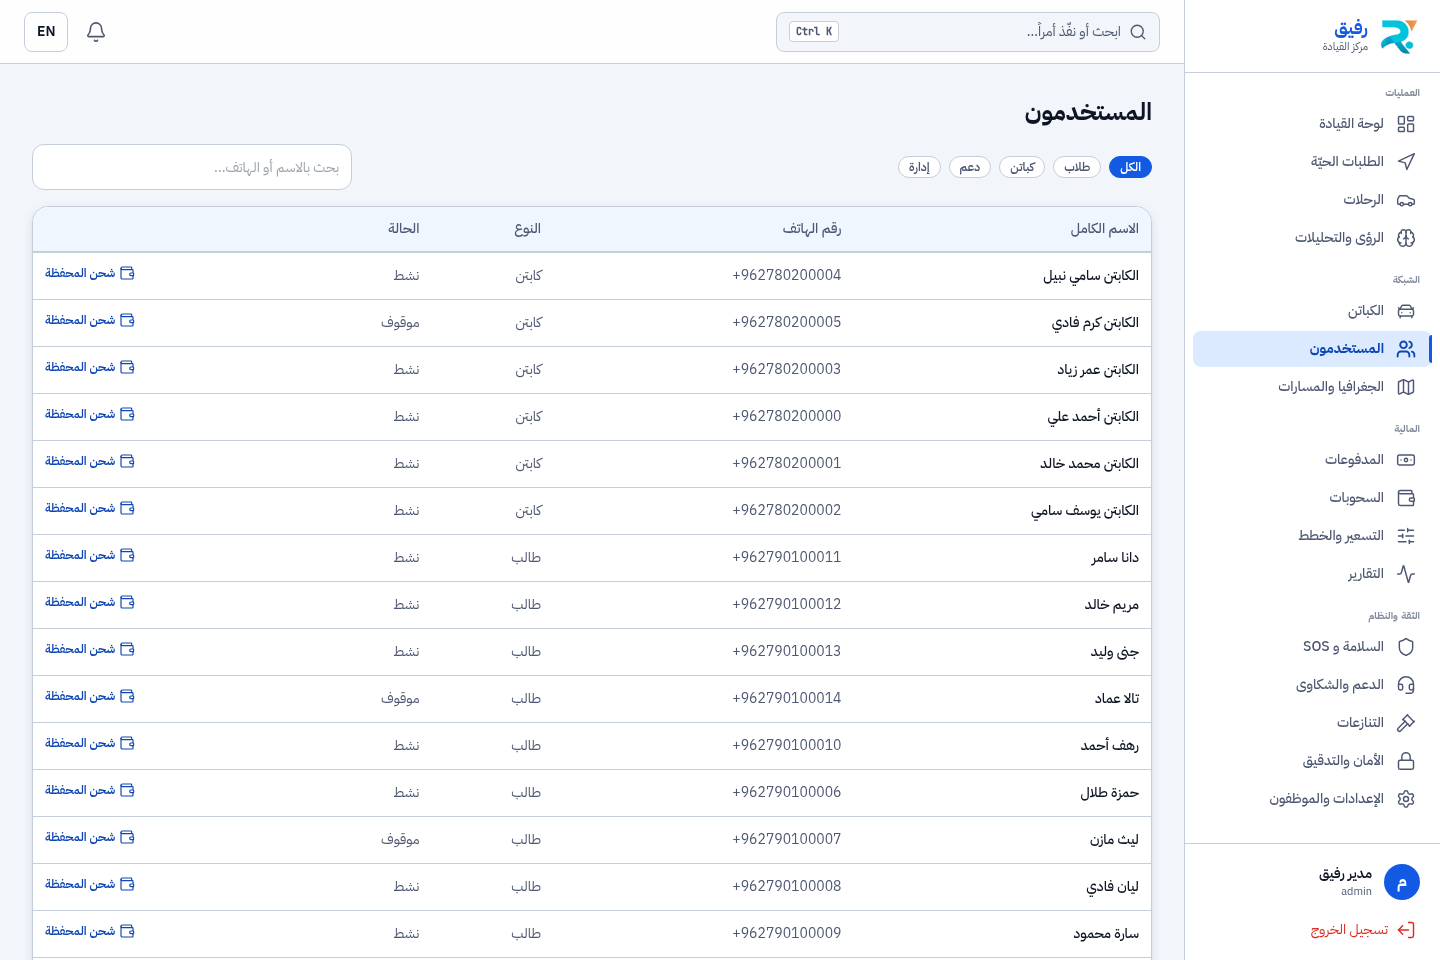
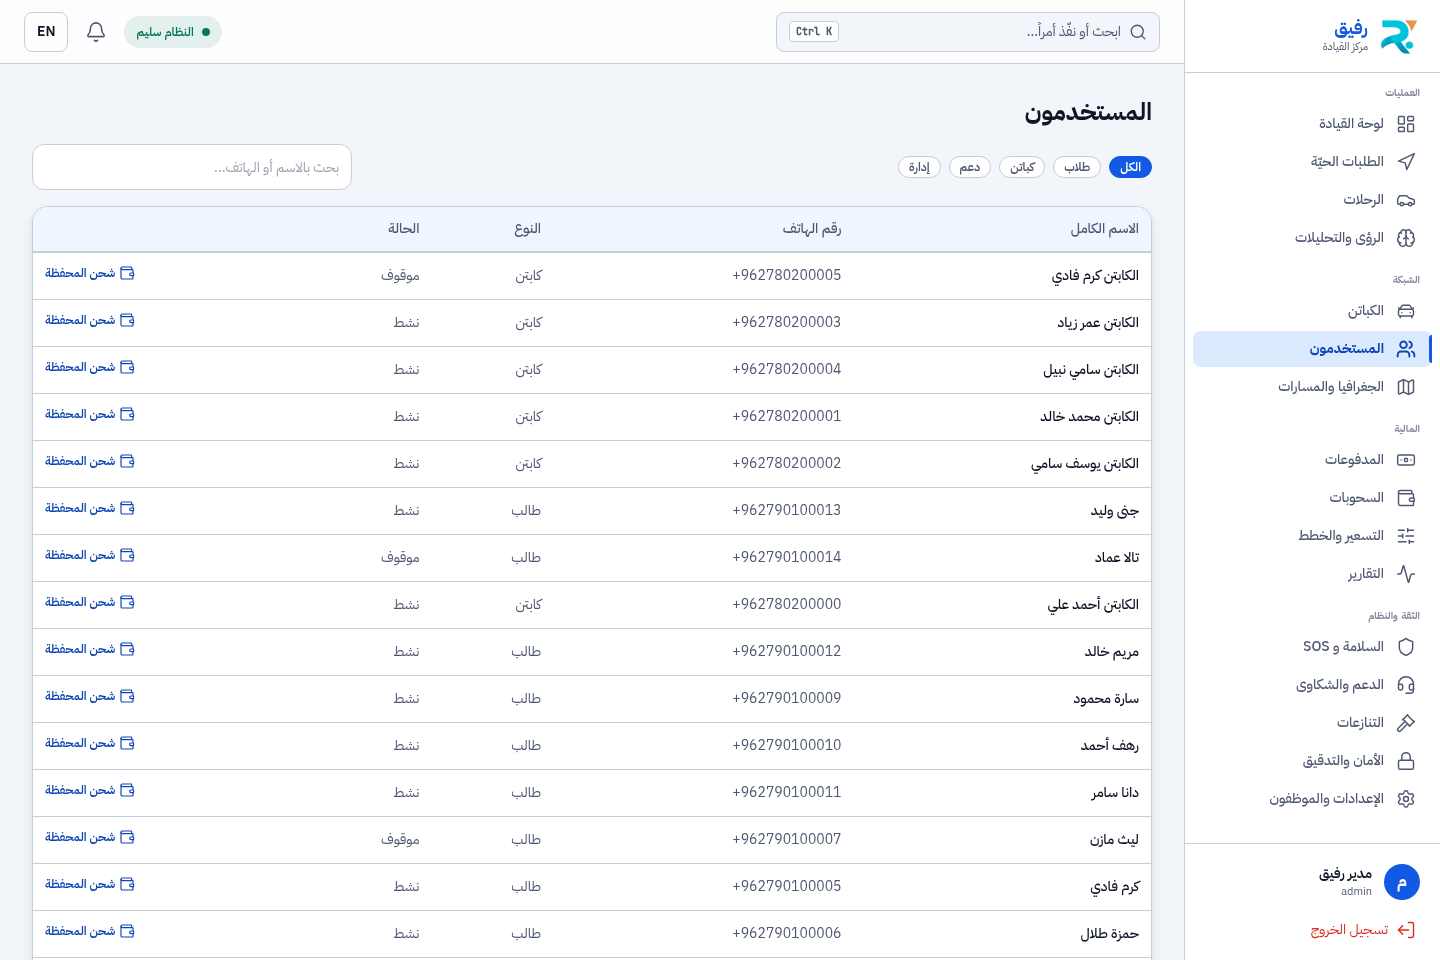
المرحلة 10.2 (جزئيّاً) — بطاقات المؤشّرات: شريط مقيس، ومؤشّر سلامة حقيقي
── The progress bar was fabricated, and never drawn ─────────────────────────

`Kpi.bar` held 0.75, 0.8, 0.6 and 0.3 — four constants typed by hand, with no input
from the report they sat beside — and nothing ever RENDERED them. The dashboard carried
invented progress values that no one could even see.

The approved reference (`docs/design/v2/06-admin-1`) does want a bar under each figure,
captioned «74% من هدف اليوم». That caption cannot be computed here: `FinancialReport`
returns no target and no previous period. So instead of approximating it — which is
what those four constants were — `share` now carries a MEASURED ratio together with the
name of the denominator, and the caption states it:

    الرحلات المدفوعة   38% بمقاعد اشتراك        by_funding.subscription.rides_count / rides_count
    إيراد المنصّة       17% من إجمالي الأجور     platform_revenue_fils / gross_fare_fils
    إجمالي الأجور       75% حصّة الكباتن منها    captain_earnings_fils / gross_fare_fils
    نزاعات حرجة        22% من النزاعات المفتوحة  critical / open

A card with no honest denominator gets no bar. On seeder data every denominator is
zero, so all four are correctly ABSENT in the committed screenshots — the render path
was verified separately with forced values, then reverted.

── The trend pill pointed up regardless of the number ───────────────────────

Every card drew a `trending-up` arrow beside `trend`, and `trend` was never a trend:
[…]

diff --git a/frontend/admin-dashboard/app/(dashboard)/page.tsx b/frontend/admin-dashboard/app/(dashboard)/page.tsx
@@ -9,6 +9,7 @@ import { useAuth } from '../../src/lib/auth';
 import { useT } from '../../src/lib/i18n';
 import { Skeleton, StatCardsSkeleton } from '../../src/components/Skeleton';
 import { Icon } from '../../src/components/Icon';
+import { Num } from '../../src/components/Num';
 
 /*
  * Money goes through the shared formatter. It used to be:
@@ -27,20 +28,45 @@ const monthStart = () => {
 };
 const today = () => new Date().toISOString().slice(0, 10);
 
+/* ═══════════════════════════════════════════════════════════════════════════
+   A KPI card, and the two things that used to be wrong with it.
+
+   ── The progress bar was fabricated ────────────────────────────────────────
+
+   `bar` held 0.75, 0.8, 0.6 and 0.3 — four constants typed by hand, with no input
+   from the report they sat beside. It was also never RENDERED, so the dashboard
+   carried invented progress values that nobody could even see. The approved reference
+   (`docs/design/v2/06-admin-1`) does want a bar under each figure, and it wants
+   «74% من هدف اليوم» — but this API returns no target and no previous period, so that
+   exact caption cannot be computed. Inventing it is what the old constants did.
+
+   `share` therefore carries a MEASURED ratio together with the name of the
+   denominator it was measured against, and the caption states that denominator. A bar
+   with nothing real to divide by is omitted rather than filled in.
+
+   ── The trend pill pointed up regardless ───────────────────────────────────
+
+   Every card rendered a `trending-up` arrow beside `trend`, and `trend` was never a
+   trend: «منذ بداية الشهر» is a period, «عمولة رحلات + بيع اشتراكات» is a composition,
+   and «لا يوجد حالياً» — no open disputes — was shown under an arrow meaning growth.
+   A rising arrow next to "none right now" is not decoration; it is a wrong reading of
+   the number it is attached to. Removed.
+   ═══════════════════════════════════════════════════════════════════════════ */
 interface Kpi {
   label: string;
   value: string;
   icon: string;
-  trend?: string;
-  bar: number; // 0..1
+  /** A measured ratio, and the denominator it is a share of. Omitted when none exists. */
+  share?: { ratio: number; ofLabel: string };
   danger?: boolean;
 }
 
 function KpiCard({ k }: { k: Kpi }) {
+  const percent = k.share ? Math.round(Math.min(1, Math.max(0, k.share.ratio)) * 100) : 0;
+
   return (
     <div className={`kpi-card p-6 flex flex-col justify-between ${k.danger ? 'border-danger/40' : ''}`}>
       <div className="flex justify-between items-start mb-4">
-        {/* Icon tile (right) */}
         <div
           className={`w-12 h-12 rounded-lg flex items-center justify-center ${
             k.danger ? 'bg-danger/10 text-danger' : 'bg-brand-100 text-primary'
@@ -48,29 +74,36 @@ function KpiCard({ k }: { k: Kpi }) {
         >
           <Icon name={k.icon} size={22} />
         </div>
-        {/* Trend pill (left) */}
-        {k.trend && (
-          <span
-            className={`flex items-center gap-1 px-2 py-1 rounded text-xs font-medium ${
-              k.danger ? 'bg-danger/10 text-danger' : 'bg-brand-100/40 text-primary-dark'
-            }`}
-          >
-            <Icon name={k.danger ? 'triangle-alert' : 'trending-up'} size={14} />
-            {k.trend}
-          </span>
-        )}
       </div>
       <div>
         <p className="muted-text text-sm mb-1">{k.label}</p>
         {/*
           There was a `unit` slot printing "JOD" beside the value, and `formatJod`
-          already returns the amount WITH «د.أ» — so the two money cards read
-          «0.000 د.أ JOD»: the same currency twice, in two scripts, on the first screen
-          of the product. The unit belongs to the formatter, which is also the only
-          thing that gets the bidi isolation right. (Its `mr-1` was a physical margin
-          in an RTL app, so it was the wrong side in English too.)
+          already returns the amount WITH the dinar mark — so the two money cards showed
+          the same currency twice, in two scripts, on the first screen of the product.
+          The unit belongs to the formatter, which is also the only thing that gets the
+          bidi isolation right.
         */}
         <div className={`stat-number ${k.danger ? 'text-danger' : ''}`}>{k.value}</div>
+
+        {k.share && (
+          <div className="mt-3">
+            {/*
+              `aria-hidden` on the bar, because the caption below already states the
+              same ratio in words — announcing a progressbar as well would read the
+              figure twice, and this is decoration for a number that is already there.
+            */}
+            <div aria-hidden="true" className="h-1.5 rounded-full bg-line overflow-hidden">
+              <div
+                className={`h-full rounded-full ${k.danger ? 'bg-danger' : 'bg-primary'}`}
+                style={{ width: `${percent}%` }}
+              />
+            </div>
+            <p className="mt-1.5 text-xs text-muted">
+              <Num percent={percent} /> {k.share.ofLabel}
+            </p>
+          </div>
+        )}
       </div>
     </div>
   );
@@ -105,13 +138,26 @@ export default function CommandCenter() {
     [disputes],
   );
 
+  /*
+   * Every `share` below divides two numbers this report actually returned. There is no
+   * target and no previous period in `FinancialReport`, so «% من هدف اليوم» and
+   * «% عن أمس» from the reference cannot be computed here — and are therefore absent
+   * rather than approximated. A card with no honest denominator gets no bar.
+   */
+  const gross = report?.gross_fare_fils ?? 0;
+  const ridesTotal = report?.rides_count ?? 0;
+  const subscriptionRides = report?.by_funding?.subscription?.rides_count ?? 0;
+  const openTotal = disputes.length;
+
   const kpis: Kpi[] = [
     {
       label: t('home.kpi.rides'),
-      value: (report?.rides_count ?? 0).toLocaleString(locale),
+      value: (ridesTotal).toLocaleString(locale),
       icon: 'car',
-      trend: t('home.trend.sinceMonth'),
-      bar: 0.75,
+      // How many of the month's paid seats were covered by a plan rather than paid per ride.
+      ...(ridesTotal > 0
+        ? { share: { ratio: subscriptionRides / ridesTotal, ofLabel: t('home.share.onSubscription') } }
+        : {}),
     },
     {
       label: t('home.kpi.commission'),
@@ -119,22 +165,26 @@ export default function CommandCenter() {
       // commission booked on subscription-covered seats.
       value: jod(report?.platform_revenue_fils ?? 0),
       icon: 'wallet',
-      trend: t('home.trend.netCommission'),
-      bar: 0.8,
+      ...(gross > 0
+        ? { share: { ratio: (report?.platform_revenue_fils ?? 0) / gross, ofLabel: t('home.share.ofGross') } }
+        : {}),
     },
     {
       label: t('home.kpi.gross'),
-      value: jod(report?.gross_fare_fils ?? 0),
+      value: jod(gross),
       icon: 'banknote',
-      trend: t('home.trend.grossValue'),
-      bar: 0.6,
+      // The captains' cut of that same gross — the other side of the figure above.
+      ...(gross > 0
+        ? { share: { ratio: (report?.captain_earnings_fils ?? 0) / gross, ofLabel: t('home.share.captainCut') } }
+        : {}),
     },
     {
       label: t('home.kpi.disputes'),
       value: String(criticalOpen),
       icon: 'triangle-alert',
-      trend: criticalOpen > 0 ? t('home.trend.needsReview') : t('home.trend.none'),
-      bar: criticalOpen > 0 ? 0.3 : 0.05,
+      ...(openTotal > 0
+        ? { share: { ratio: criticalOpen / openTotal, ofLabel: t('home.share.ofOpenDisputes') } }
+        : {}),
       danger: criticalOpen > 0,
     },
   ];

diff --git a/frontend/admin-dashboard/src/components/SystemHealth.tsx b/frontend/admin-dashboard/src/components/SystemHealth.tsx
@@ -1,0 +1,77 @@
+'use client';
+
+import { useEffect, useState } from 'react';
+import { useT } from '../lib/i18n';
+import { api } from '../lib/api';
+
+/* ═══════════════════════════════════════════════════════════════════════════
+   The «النظام سليم» pill from `docs/design/v2/06-admin-1`.
+
+   ── Why it is wired to the probe and not to a constant ─────────────────────
+
+   A green "system healthy" badge that is always green is worse than no badge: it is a
+   claim the product makes about itself that nothing checks, and the one morning it is
+   wrong is the morning an operator trusts it. `/api/v1/health` already exists and
+   already answers the real question — it touches the database and the cache and
+   returns 503 when either fails — so the pill reports that, or reports nothing.
+
+   ── Three states, not two ──────────────────────────────────────────────────
+
+   `unknown` is a state, not a synonym for degraded. If the probe itself cannot be
+   reached, the honest thing to render is a muted pill rather than a red one: the
+   platform may be perfectly healthy and only this dashboard's path to it broken, and
+   crying "degraded" at an operator who then goes looking for an outage that does not
+   exist is its own kind of failure.
+   ═══════════════════════════════════════════════════════════════════════════ */
+
+type Health = 'healthy' | 'degraded' | 'unknown';
+
+/** A minute. The probe hits the database, so it is not free to ask constantly. */
+const POLL_MS = 60_000;
+
+export function SystemHealth() {
+  const { t } = useT();
+  const [state, setState] = useState<Health>('unknown');
+
+  useEffect(() => {
+    let alive = true;
+
+    const probe = async () => {
+      try {
+        const { data } = await api.http.get<{ data?: { status?: string } }>('/health');
+        if (!alive) return;
+        setState(data?.data?.status === 'healthy' ? 'healthy' : 'degraded');
+      } catch {
+        // A 503 from the probe IS the degraded answer; anything else means we could
+        // not ask, which is `unknown`. The client throws on both, so distinguish them.
+        if (alive) setState('unknown');
+      }
+    };
+
+    probe();
+    const id = setInterval(probe, POLL_MS);
+
+    return () => {
+      alive = false;
+      clearInterval(id);
+    };
+  }, []);
+
+  if (state === 'unknown') return null;
+
+  const healthy = state === 'healthy';
+
+  return (
+    <span
+      className={`hidden md:flex items-center gap-2 h-8 px-3 rounded-full text-xs font-semibold ${
+        healthy ? 'bg-success/10 text-success' : 'bg-danger/10 text-danger'
+      }`}
+    >
+      <span
+        aria-hidden="true"
+        className={`w-2 h-2 rounded-full ${healthy ? 'bg-success' : 'bg-danger'}`}
+      />
+      {t(healthy ? 'shell.systemHealthy' : 'shell.systemDegraded')}
+    </span>
+  );
+}

diff --git a/frontend/admin-dashboard/src/lib/i18n.ts b/frontend/admin-dashboard/src/lib/i18n.ts
@@ -230,15 +230,19 @@ const DICT: Dict = {
   'home.welcome': { ar: 'أهلاً', en: 'Welcome' },
   'home.subtitle': { ar: 'مراقبة الأداء والمقاييس الرئيسية لحظياً.', en: 'Real-time performance & key metrics.' },
   'home.lastUpdate': { ar: 'آخر تحديث', en: 'Last updated' },
+
+  /*
+   * The denominator each KPI bar was measured against. Naming it in the caption is the
+   * difference between «74%» (of what?) and a figure a reader can check.
+   */
+  'home.share.onSubscription': { ar: 'بمقاعد اشتراك', en: 'on subscription seats' },
+  'home.share.ofGross': { ar: 'من إجمالي الأجور', en: 'of gross fares' },
+  'home.share.captainCut': { ar: 'حصّة الكباتن منها', en: "captains' cut of it" },
+  'home.share.ofOpenDisputes': { ar: 'من النزاعات المفتوحة', en: 'of open disputes' },
   'home.kpi.rides': { ar: 'الرحلات المدفوعة (الشهر)', en: 'Paid rides (month)' },
   'home.kpi.commission': { ar: 'إيراد المنصّة', en: 'Platform revenue' },
   'home.kpi.gross': { ar: 'إجمالي الأجور المحصّلة', en: 'Total fares collected' },
   'home.kpi.disputes': { ar: 'نزاعات مفتوحة عالية الخطورة', en: 'High-risk open disputes' },
-  'home.trend.sinceMonth': { ar: 'منذ بداية الشهر', en: 'Since start of month' },
-  'home.trend.netCommission': { ar: 'عمولة رحلات + بيع اشتراكات', en: 'Ride commission + plan sales' },
-  'home.trend.grossValue': { ar: 'إجمالي قيمة الرحلات', en: 'Gross ride value' },
-  'home.trend.needsReview': { ar: 'تتطلب مراجعة فورية', en: 'Needs immediate review' },
-  'home.trend.none': { ar: 'لا يوجد حالياً', en: 'None right now' },
   'home.commissionByZone': { ar: 'عمولة المنصة حسب المنطقة', en: 'Platform commission by zone' },
   'home.fullReports': { ar: 'التقارير الكاملة', en: 'Full reports' },
   'home.noData': { ar: 'لا توجد بيانات للفترة الحالية', en: 'No data for the current period' },

diff --git a/frontend/admin-dashboard/src/components/Topbar.tsx b/frontend/admin-dashboard/src/components/Topbar.tsx
@@ -8,6 +8,7 @@ import { Tooltip } from './Tooltip';
 import { api } from '../lib/api';
 import { Icon } from './Icon';
 import { CommandPalette } from './CommandPalette';
+import { SystemHealth } from './SystemHealth';
 
 export function Topbar() {
   const { locale, setLocale } = usePrefs();
@@ -80,6 +81,8 @@ export function Topbar() {
       <CommandPalette />
 
       <div className="flex items-center gap-2">
+        <SystemHealth />
+
         {/* Notifications */}
         <div className="relative" ref={panelRef}>
           <Tooltip label={t('shell.notifications')}>

diff --git a/docs/SCREENSHOTS.md b/docs/SCREENSHOTS.md
@@ -480,7 +480,14 @@
    `react-native-web` وهو يُترجم إلى CSS لا إلى Yoga، فهذه فروق تخطيط ويب لا تمثّل
    بالضرورة ما يظهر على هاتف. التحقّق من التخطيط الأصلي هو مهمّة **11.9 (Maestro)**.
 
-6. **ما زال أمام لوحة الإدارة بقيّة المرحلة 10.** أُنجزت **10.1** (الشلّ والملاحة). أمّا
-   **10.2** (الصفحات الأربع الحاكمة بمؤشّراتها وأشرطة تقدّمها ولوحة «يحتاج إجراءً»)
-   و**10.3** و**10.4** و**10.5** فلم تُنفَّذ بعد — فبطاقات المؤشّرات في لوحة القيادة
-   ما زالت تحمل شارة اتّجاه صاعد بجوار نصٍّ ليس نسبة، وهذا ما تُصلحه 10.2.
+6. **أشرطة المؤشّرات غائبة في الصور، وهذا هو السلوك الصحيح.** كل شريط في بطاقة مؤشّر
+   يقسم رقمين أعادهما التقرير فعلاً، ويذكر المقام في التسمية («٣٨٪ بمقاعد اشتراك»،
+   «١٧٪ من إجمالي الأجور»). وبما أن `DemoSeeder` لا يُنشئ مدفوعات، فالمقام صفر
+   والشريط **يُحجَب** بدل أن يُعبَّأ برقم مُختلَق. تحقّقتُ من مسار الرسم بقيم مفروضة
+   مؤقّتاً ثم أزلتها. (لو أردتَ رؤية الأشرطة في الصور، الخطوة هي أن يُنشئ الـseeder
+   مدفوعات حقيقيّة — وهي فرصة قائمة لم أنفّذها بعد.)
+
+7. **ما زال أمام لوحة الإدارة بقيّة المرحلة 10.** أُنجزت **10.1** (الشلّ والملاحة)
+   و**10.2 جزئيّاً** (بطاقات المؤشّرات ومؤشّر سلامة النظام). أمّا لوحة «يحتاج إجراءً»
+   و«أعلى المناطق طلباً» وحبوب التصفية بعدّاداتها في الطلبات الحيّة والمدفوعات،
+   و**10.3** و**10.4** و**10.5** فلم تُنفَّذ بعد.
